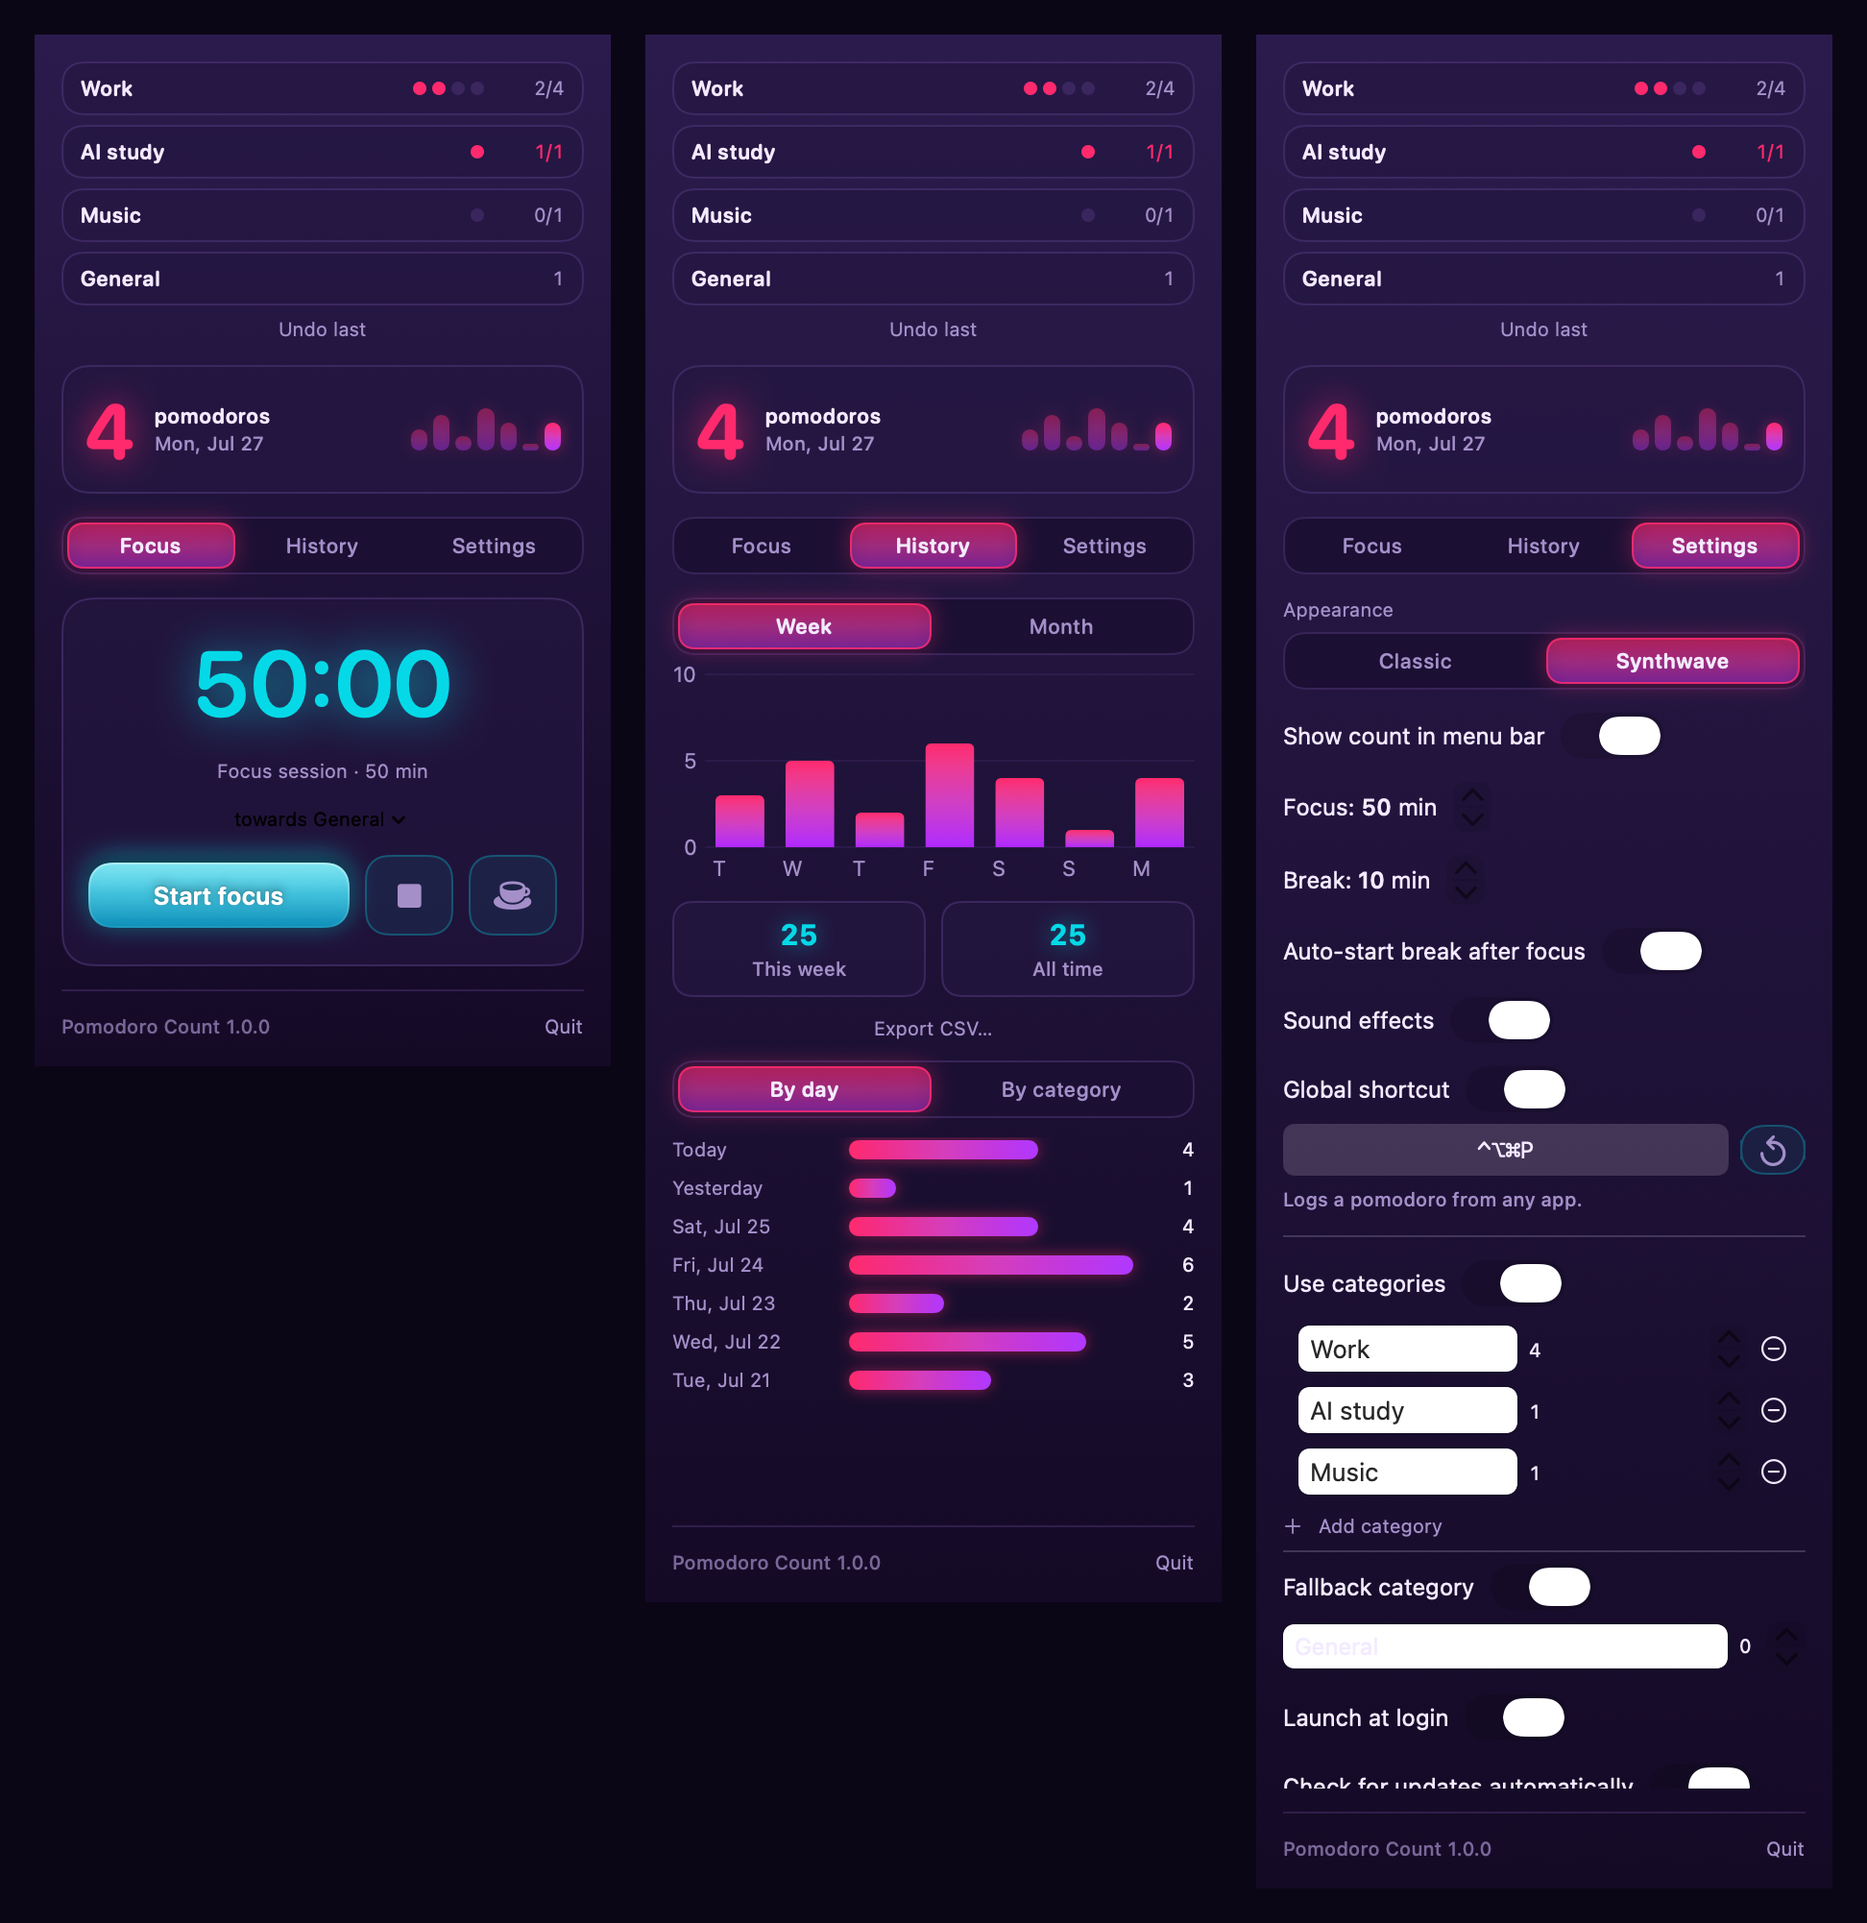
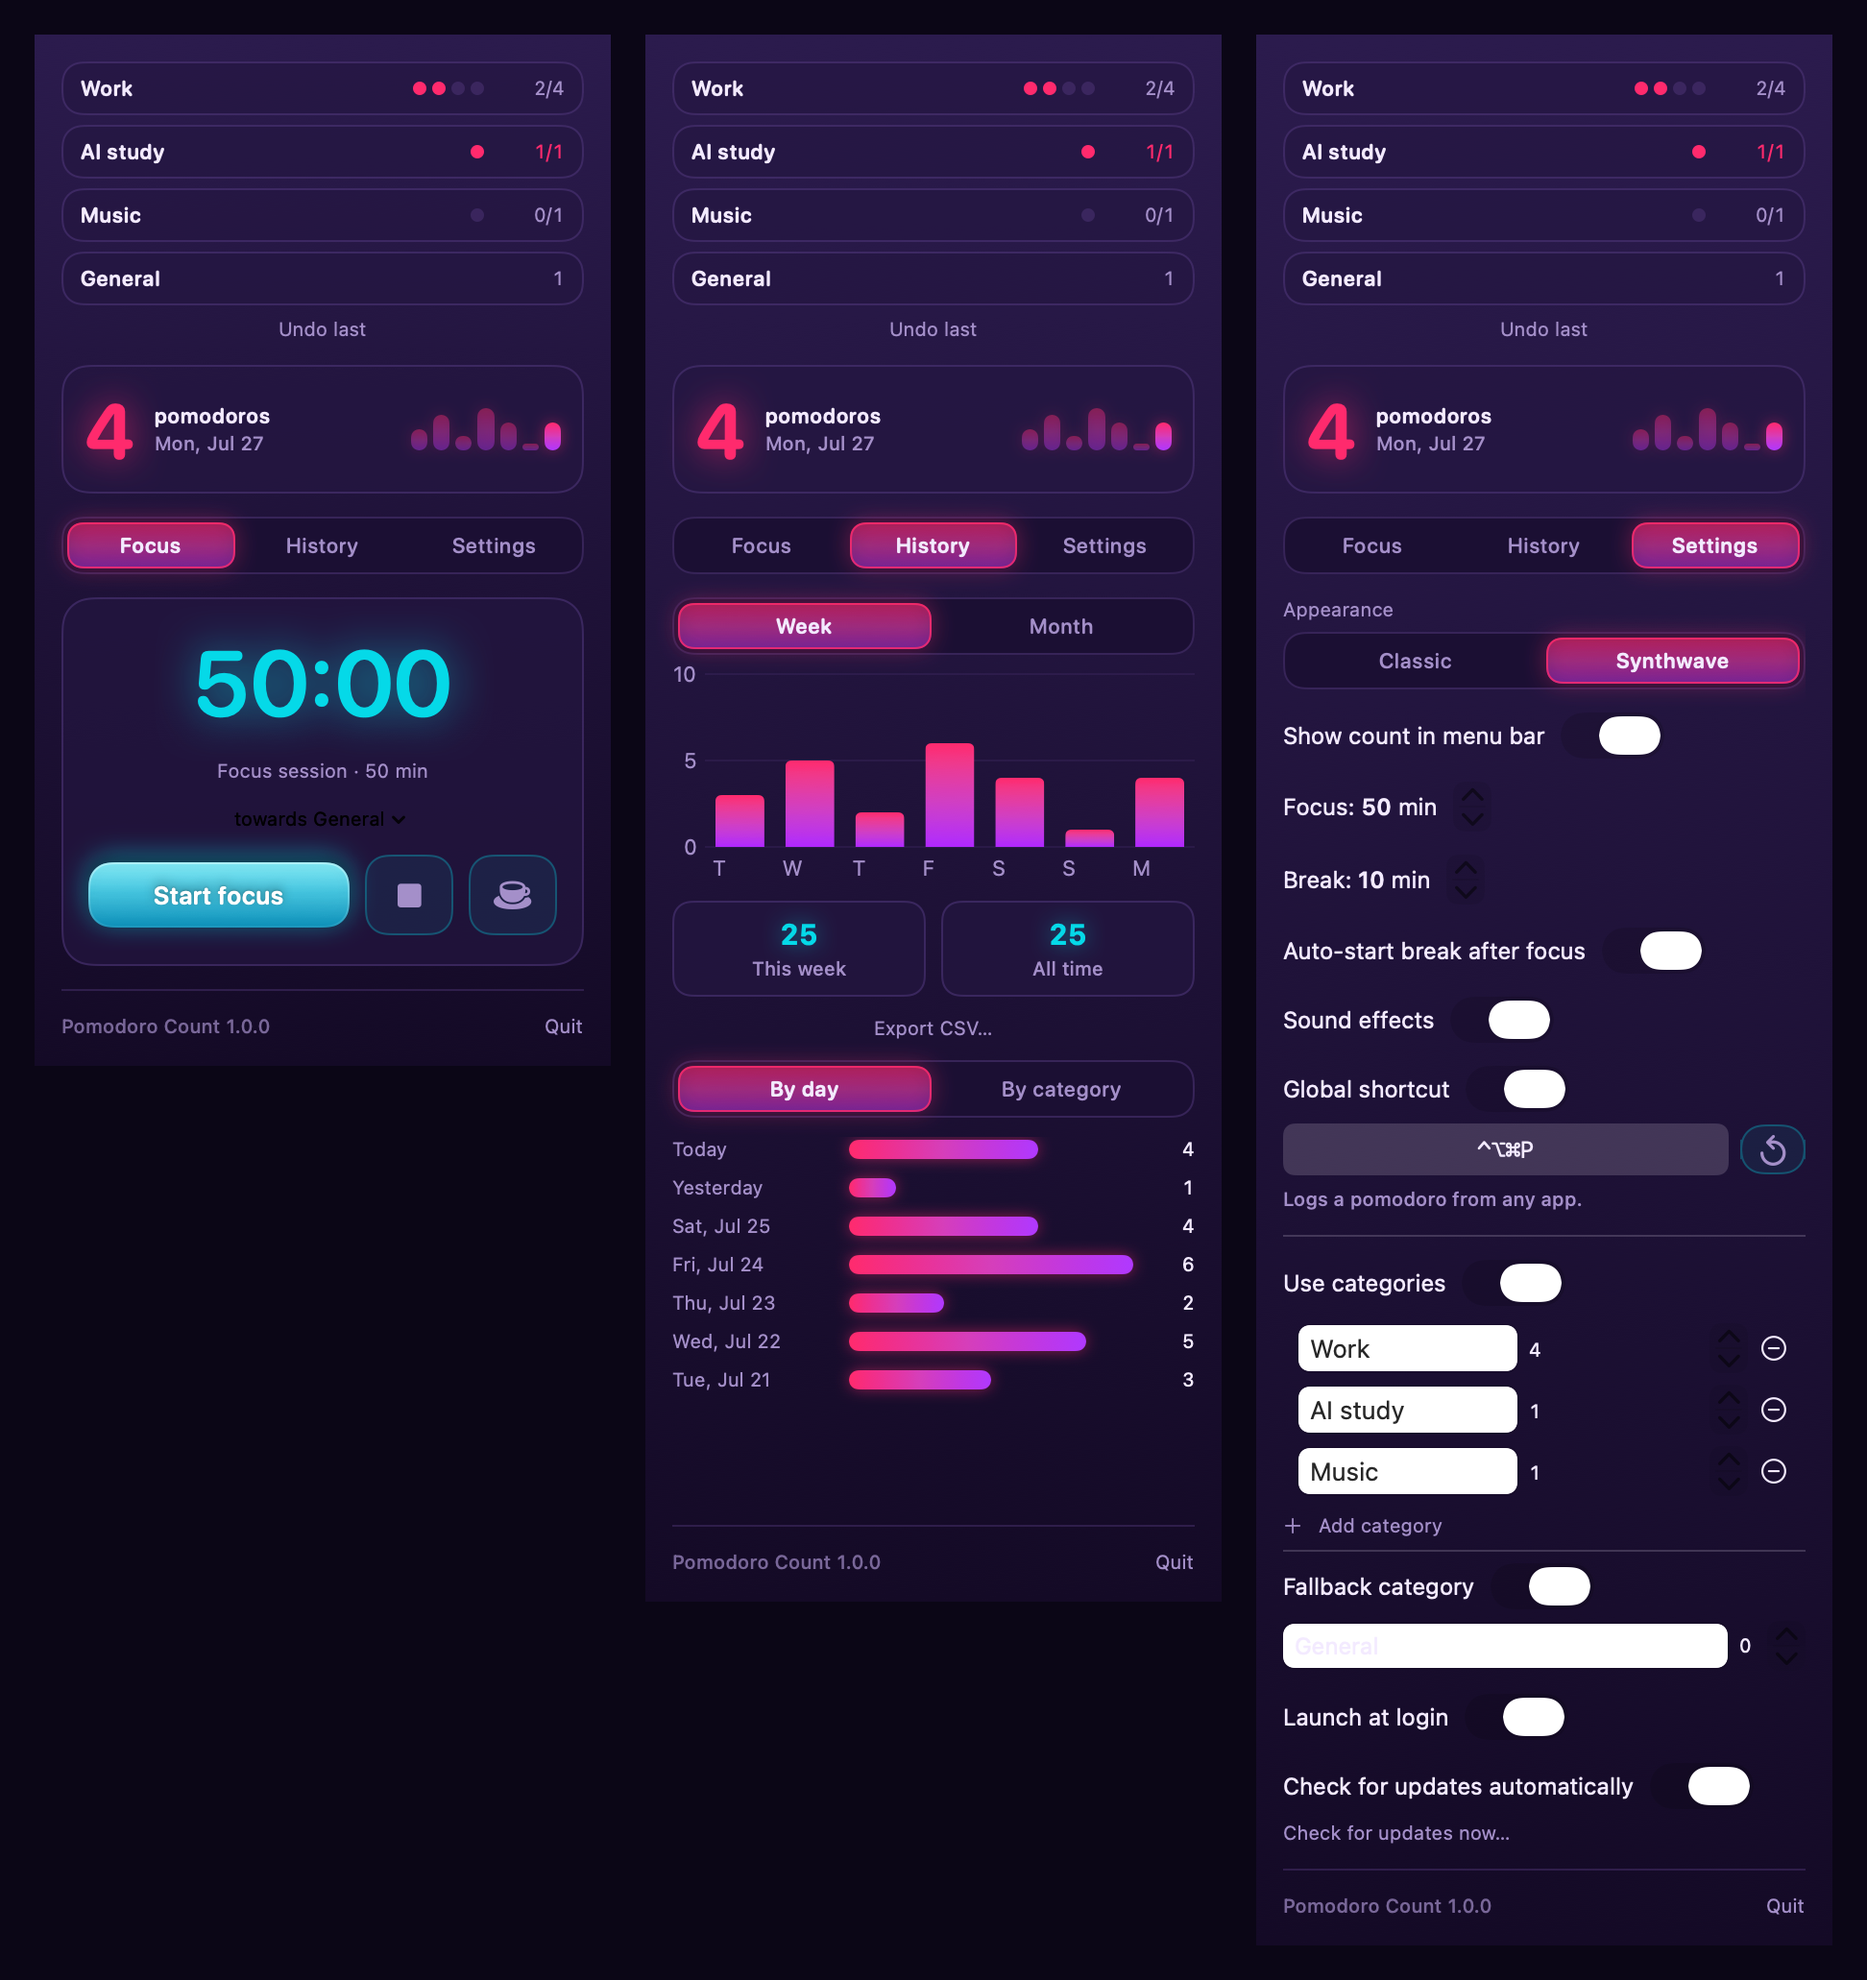
Raise the Settings cap so the updater controls fit
The 620pt cap was measured on a build with no Sparkle key, so the updater
controls were absent from the measurement. A real build has them, and at 620
'Check for updates automatically' was sliced through -- visible in the README
screenshot. 700pt fits the whole tab including those two rows.

Screenshots regenerated.

diff --git a/Sources/PomodoroCount/SettingsTab.swift b/Sources/PomodoroCount/SettingsTab.swift
@@ -144,7 +144,7 @@ struct SettingsTab: View {
                 }
             }
         }
-        .frame(maxHeight: 620)
+        .frame(maxHeight: 700)
         .toggleStyle(.switch)
         .tint(palette.accent)
         .font(.callout)
